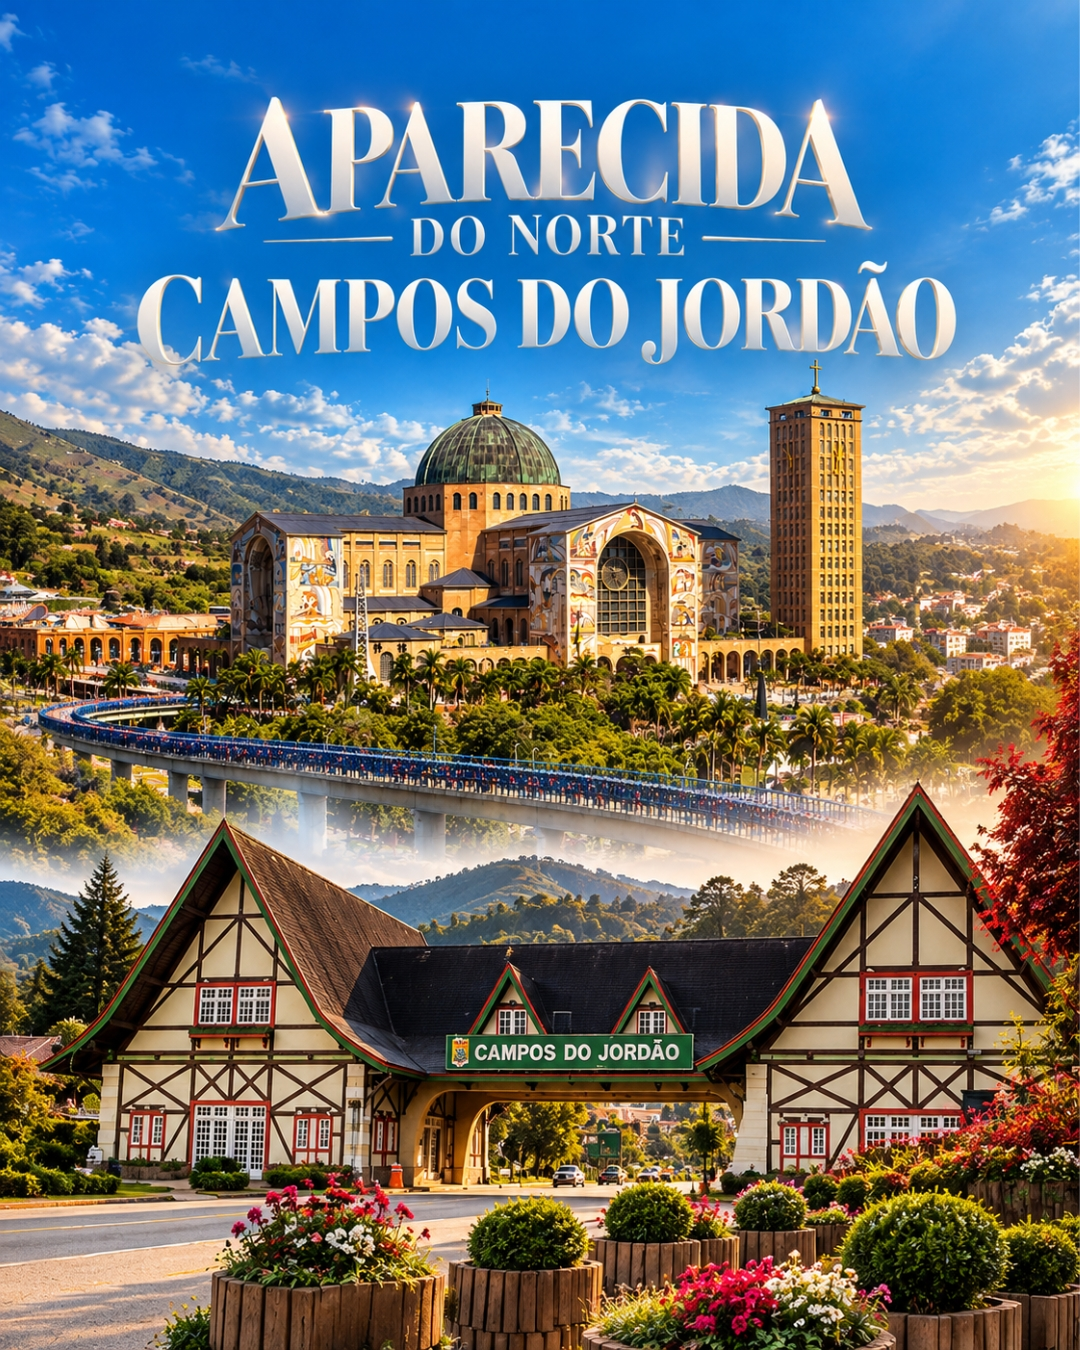
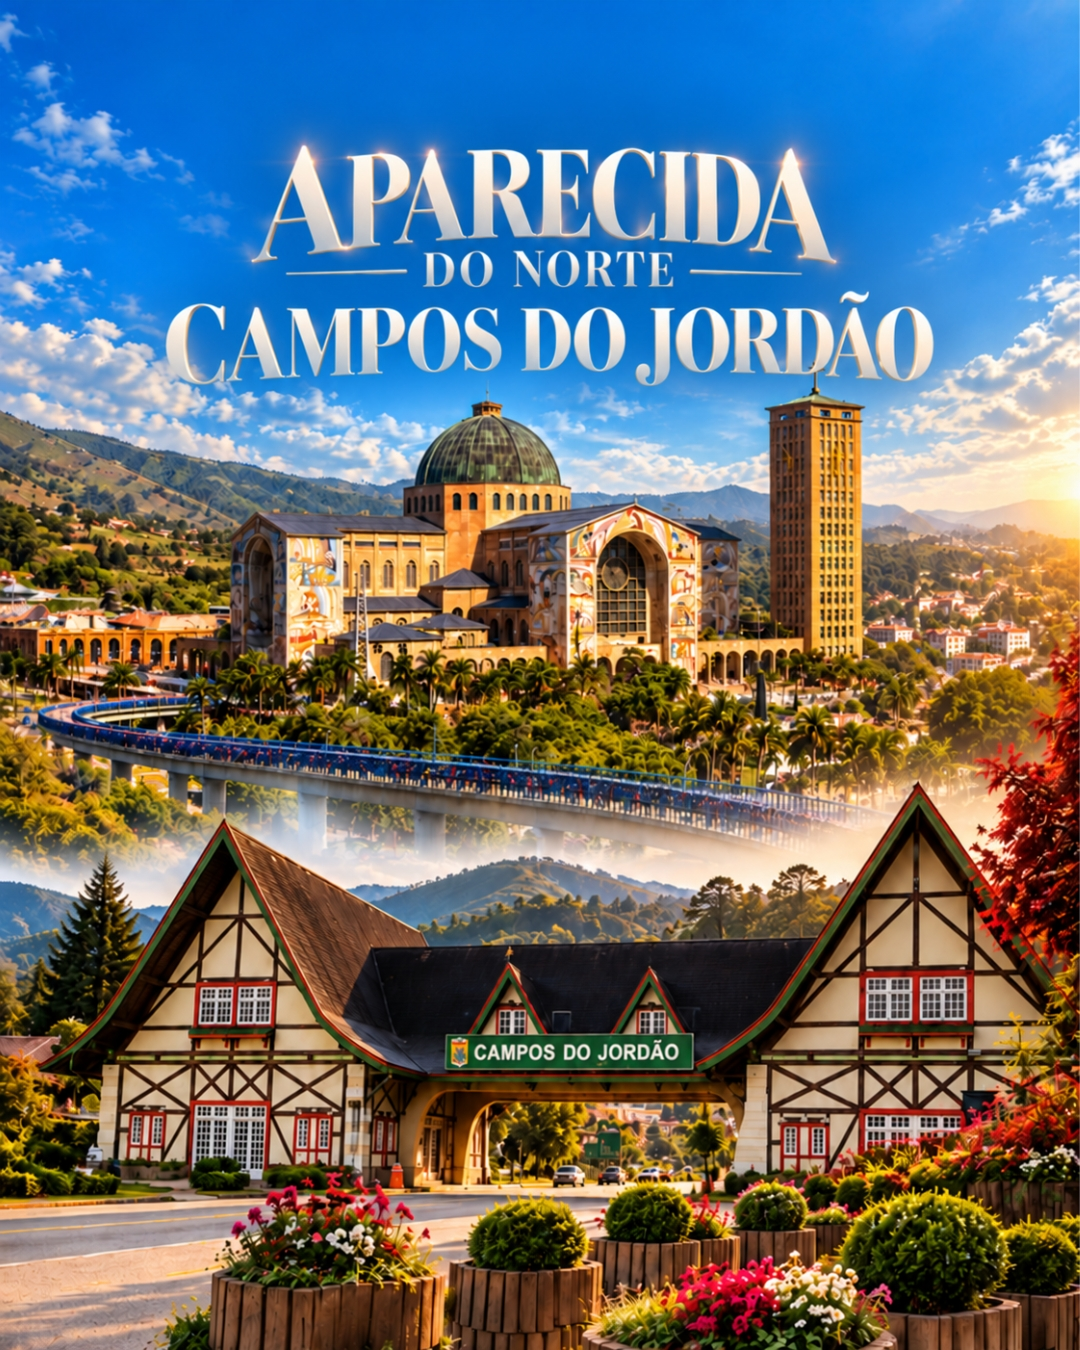
Finalizando design do menu no desktop e adicionando FAQ de roteiros

diff --git a/src/app/roteiros/page.tsx b/src/app/roteiros/page.tsx
@@ -2,15 +2,39 @@ import type { Metadata } from "next";
 import Link from "next/link";
 import { PiArrowLeft } from "react-icons/pi";
 
-import Footer from "@/components/footer";
+import Footer, { type FaqItem } from "@/components/footer";
 import NavigationCard from "@/components/navigation-card";
 import Header from "@/modules/home/ui/components/header";
 
 export const metadata: Metadata = {
   title: "Roteiros",
   description:
-    "Conheça os roteiros da Aramas Tur e escolha o seu próximo destino.",
+    "Conheça os nossos roteiros através de viagens reais que já fizemos. Descubra como é a experiência inesquecível de viajar com a Aramas Tur.",
 };
+
+const roteirosFaqItems: FaqItem[] = [
+  {
+    question:
+      "Os roteiros mostrados aqui são exatamente iguais para todas as viagens?",
+    answer:
+      "Os destinos e fotos desta página ilustram experiências incríveis que já vivemos com nossos clientes. O itinerário exato, as paradas e os atrativos podem variar dependendo do pacote específico, da época do ano e da duração da viagem.",
+  },
+  {
+    question: "Como sei exatamente o que está incluso no meu pacote?",
+    answer:
+      "Cada viagem possui um descritivo próprio. Recomendamos sempre conferir o roteiro detalhado e os passeios inclusos diretamente na página de vendas onde você vai adquirir a sua passagem, ou tirando dúvidas com a nossa equipe de atendimento.",
+  },
+  {
+    question: "As refeições e hospedagens estão inclusas?",
+    answer:
+      "Isso varia de acordo com cada viagem. A quantidade de refeições, o tipo de hospedagem, a duração e o preço dependem do pacote escolhido. Por isso, no momento da compra, é fundamental conferir todas essas informações na página de vendas do pacote ou entrar em contato com a nossa equipe para não ter erro.",
+  },
+  {
+    question: "Gostei de um destino! Os preços são fixos?",
+    answer:
+      "Não. Os valores variam conforme a data, feriados e as opções de cada pacote. Fale com nossa equipe no WhatsApp ou acesse a nossa página de compras para conferir os pacotes abertos no momento e garantir o seu lugar.",
+  },
+];
 
 const destinations = [
   {
@@ -95,7 +119,9 @@ const RoteirosPage = () => {
           <div className="flex flex-col gap-2">
             <h1 className="text-2xl lg:text-3xl">Nossos Roteiros</h1>
             <p className="text-text-muted text-[15px]">
-              Escolha o seu próximo destino e viaje com a Aramas Tur.
+              Conheça os nossos roteiros através de viagens reais que já
+              fizemos. Descubra como é a experiência inesquecível de viajar com
+              a Aramas Tur.
             </p>
           </div>
         </section>
@@ -110,7 +136,7 @@ const RoteirosPage = () => {
           ))}
         </div>
 
-        <Footer />
+        <Footer faqItems={roteirosFaqItems} />
       </main>
     </>
   );

diff --git a/src/modules/home/ui/components/header/index.tsx b/src/modules/home/ui/components/header/index.tsx
@@ -4,11 +4,33 @@ import Navbar from "./navbar";
 
 const Header = () => {
   return (
-    <header className="fixed left-3 z-50 bg-background rounded-br-[18px]" style={{ top: "calc(env(safe-area-inset-top, 0px) + 12px)" }}>
+    <header
+      className="fixed left-3 z-50 bg-background rounded-br-[18px]"
+      style={{ top: "calc(env(safe-area-inset-top, 0px) + 12px)" }}
+    >
       <div className="relative">
         <Navbar />
-        {/* MOBILE TOP BAR  */}
-        <div className="fixed top-0 left-0 w-full bg-background block lg:hidden" style={{ height: "calc(env(safe-area-inset-top, 0px) + 12px)" }}></div>
+
+        {/* MOBILE TOP BAR — original full-width safe-area fill */}
+        <div
+          className="fixed top-0 left-0 w-full bg-background block lg:hidden"
+          style={{ height: "calc(env(safe-area-inset-top, 0px) + 12px)" }}
+        />
+
+        {/* DESKTOP ONLY: fill top gap above header + right decorative curve */}
+        <div
+          aria-hidden
+          className="pointer-events-none absolute -left-3 -right-[18px] hidden bg-background lg:block"
+          style={{
+            top: "calc(-1 * (env(safe-area-inset-top, 0px) + 12px))",
+            height: "calc(env(safe-area-inset-top, 0px) + 12px)",
+          }}
+        />
+        {/* DESKTOP ONLY: fill left gap beside the header */}
+        <div
+          aria-hidden
+          className="pointer-events-none absolute -left-3 top-0 bottom-0 hidden w-3 bg-background lg:block"
+        />
 
         <div className="absolute left-0 -bottom-[18px] size-[18px]">
           <Graphic />

diff --git a/src/components/footer/index.tsx b/src/components/footer/index.tsx
@@ -7,7 +7,12 @@ import {
 } from "@/components/ui/accordion";
 import { siteConfig } from "@/site.config";
 
-const faqItems = [
+export type FaqItem = {
+  question: string;
+  answer: string;
+};
+
+const defaultFaqItems: FaqItem[] = [
   {
     question: "Quais são as formas de pagamento?",
     answer:
@@ -40,7 +45,11 @@ const faqItems = [
   },
 ];
 
-const Footer = () => {
+interface FooterProps {
+  faqItems?: FaqItem[];
+}
+
+const Footer = ({ faqItems = defaultFaqItems }: FooterProps) => {
   return (
     <div className="flex flex-col items-center lg:items-start p-16 pb-12 gap-8 lg:gap-16 rounded-xl font-light relative flex-1 bg-primary text-white dark:text-black">
       <div className="flex flex-col lg:flex-row gap-4 items-center">
